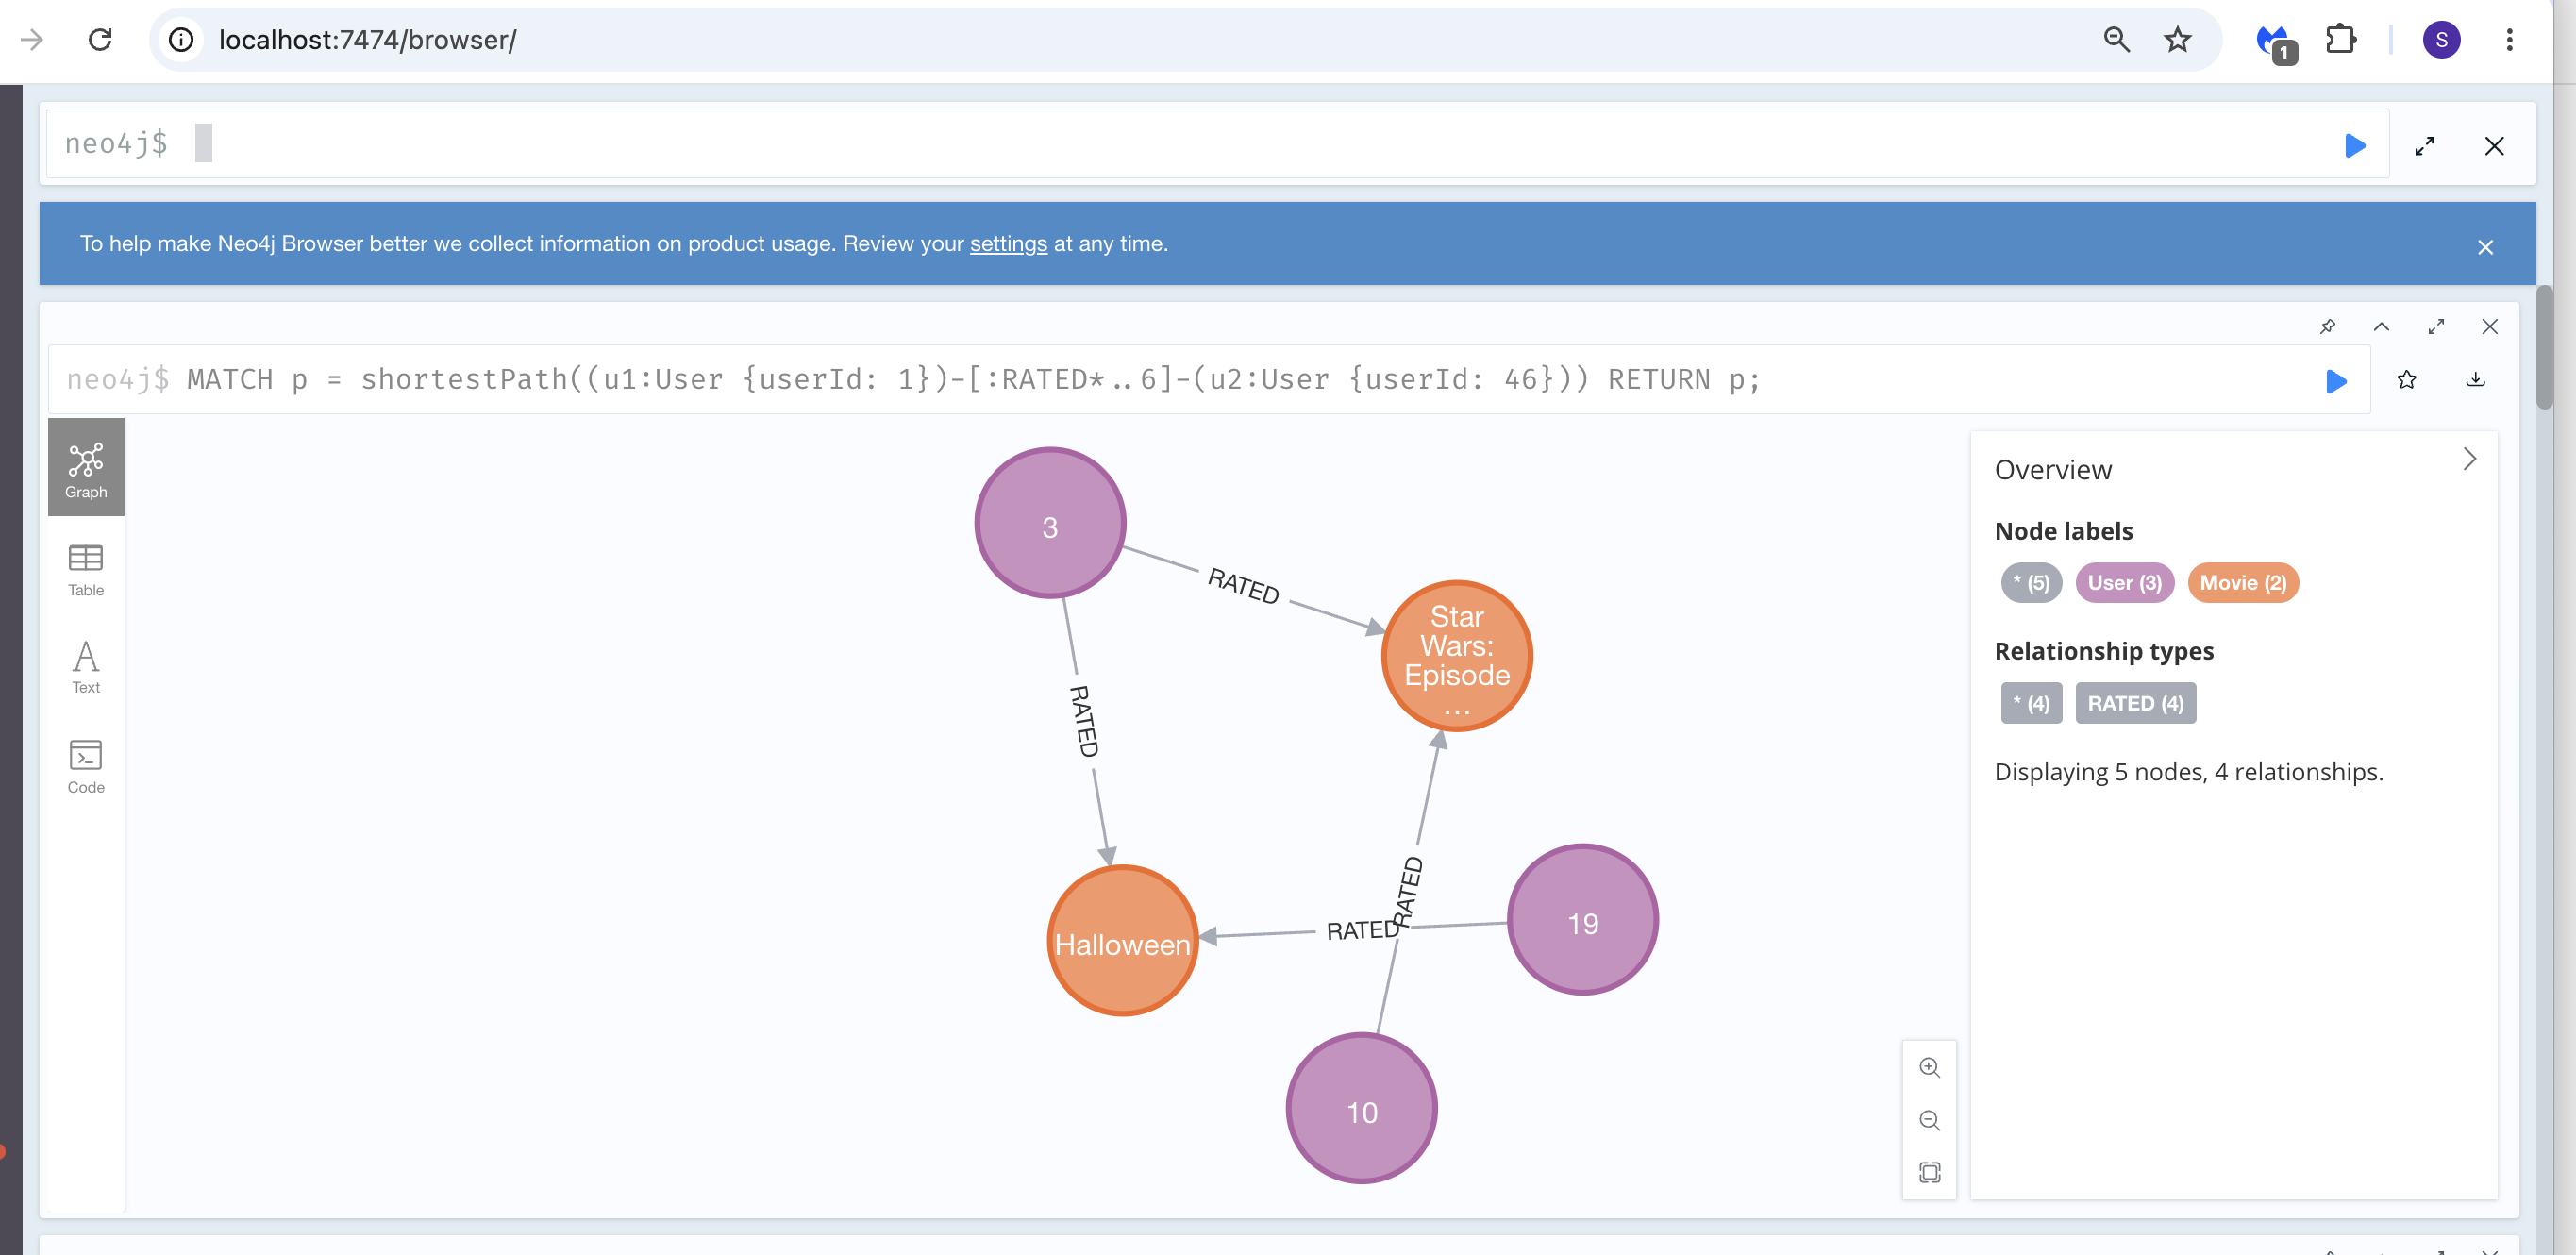
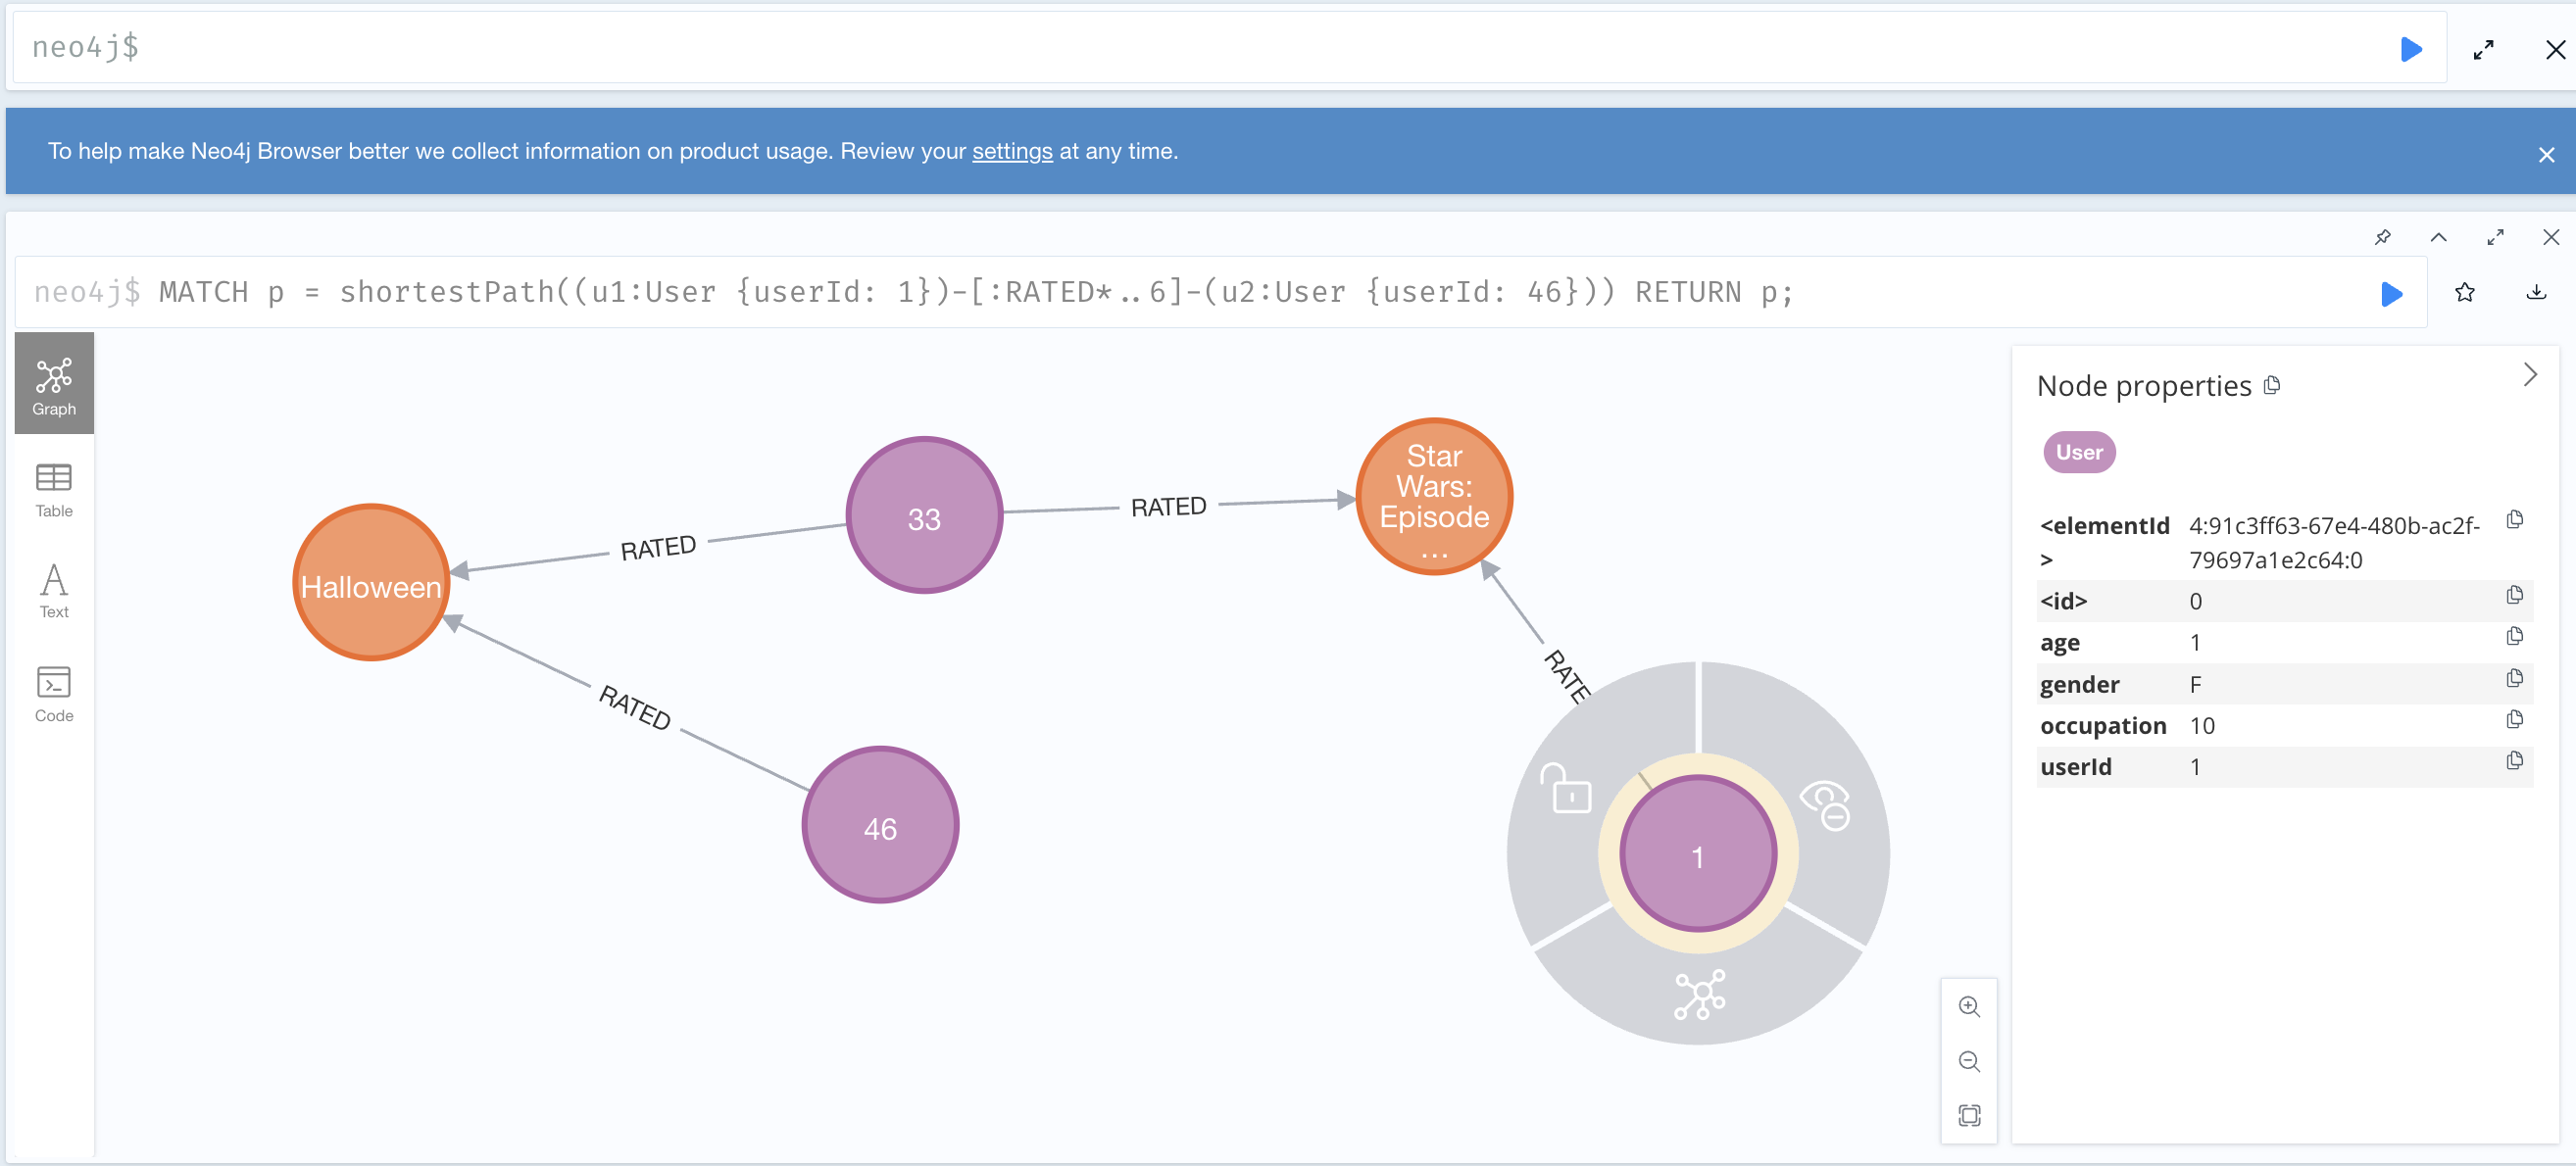
part4,5_1

diff --git a/README.md b/README.md
@@ -184,3 +184,83 @@
    * *Інтерпретація:* Це трикроковий ланцюжок інтересів (3 користувачі та 3 фільми). Користувач 1 пов'язаний з Користувачем 10 через ланцюг спільних смаків двох проміжних людей (X та Y). У теорії соціальних мереж такий шлях вважається межею щільності ("Теорія шести рукостискань"), яка показує, що навіть абсолютно різні та далекі за смаками користувачі все одно пов'язані через дуже коротку дистанцію.
 
 ---
+
+## Частина 4. Виявлення супервузлів (Supernodes)
+
+### Пояснення логіки запитів та суті проблеми
+
+* **Запит 1 (Пошук супервузлів серед Фільмів):**
+    * *Що робить:* Підраховує кількість вхідних ребер `[:RATED]` для кожного фільму, сортує їх за спаданням і виводить топ-10 найпопулярніших кінострічок, які є головними «хабами» графа.
+    * *Чому написаний саме так:* Запит використовує агрегацію `count(r)` у поєднанні з оператором `WITH`. Це дозволяє Neo4j спочатку обчислити ступінь зв'язності вузла (Degree), виконати швидке сортування в пам'яті та обмежити вибірку за допомогою `LIMIT 10` до того, як повертати фінальні властивості тексту.
+
+    <img src="screenshots/part4/movie_supernodes.png" width="600" alt="Супервузли серед фільмів">
+
+* **Запит 2 (Пошук супервузлів серед Користувачів):**
+    * *Що робить:* Підраховує кількість вихідних ребер від кожного користувача, виявляючи аномально активних критиків чи ботів, які оцінили найбільшу кількість фільмів.
+    * *Чому написаний саме так:* Аналогічно до першого запиту, фокусується на вихідних зв'язках `(u:User)-[r:RATED]->()`. Використання чистого анонімного патерна `->()` без вказання типу кінцевого вузла оптимізує швидкість підрахунку, оскільки планувальник Neo4j дивиться суто на вказівники ребер у дескрипторі вузла користувача.
+
+    <img src="screenshots/part4/user_supernodes.png" width="600" alt="Супервузли серед користувачів">
+
+#### Чому супервузли — це проблема для продуктивності?
+Коли Cypher-запит (наприклад, алгоритм рекомендацій чи пошук найкоротшого шляху) доходить до супервузла, відбувається **ефект пляшкового горла**. Замість швидкого переходу до наступного кроку, база даних змушена зчитувати та ітерувати тисячі або десятки тисяч ребер, що належать цьому одному вузлу. Це різко збільшує використання оперативної пам'яті (Heap memory) та призводить до комбінаторного вибуху на наступних кроках обходу мережі.
+
+#### Відповіді на запитання:
+
+1. **Які вузли виявилися супервузлами? Скільки у них зв’язків?**
+   * **Серед Фільмів (In-degree Supernodes):** Абсолютним лідером став фільм **"American Beauty" (1999)**, який має аномальні **3428 вхідних ребер** `[:RATED]`. Також у топ-хабів увійшла оригінальна трилогія **"Star Wars"** (епізоди IV, V, VI) та **"Jurassic Park"** із показниками близько 2600–2900 зв'язків кожен.
+   * **Серед Користувачів (Out-degree Supernodes):** Головним супервузлом виявився користувач із **`userId: 4169`**, який самостійно згенерував **2314 вихідних ребер** до різних фільмів. За ним іде `userId: 1680` із 1850 ребрами.
+
+2. **Чому запит, що зачіпає такий вузол, працює повільніше, ніж запит по «звичайному» вузлу з тими самими індексами?**
+   Індекси в графових базах даних (наприклад, за `userId` або `movieId`) допомагають лише **знайти початкову точку входу** в граф за $O(1)$ або $O(\log N)$. Але щойно точка знайдена, починається операція обходу графа (Graph Traversal).
+   * **У звичайному вузлі:** користувач має, наприклад, 10 оцінок. База зчитує 10 покажчиків у пам'яті й миттєво переходить далі.
+   * **У супервузлі:** коли алгоритм доходить до *"American Beauty"*, він змушений зчитати та ітерувати всі 3428 ребер у пам'яті (Heap memory). Якщо на наступному кроці алгоритму (наприклад, у колаборативній фільтрації) ми спробуємо розгорнути зв'язки цих 3428 користувачів, відбудеться **комбінаторний вибух**. База почне прораховувати мільйони траєкторій, що призведе до різкого падіння швидкості, забивання RAM та таймауту, незалежно від наявності індексів.
+
+3. **Яку конкретну стратегію з лекцій ви б застосували для цього датасету? Що робити з жанрами?**
+   Якщо поглянути на архітектуру нашої бази, **вузли жанрів (`:Genre`, такі як *Drama*, *Comedy*, *Action*) є абсолютними мега-супервузлами**. Наприклад, до жанру *Drama* чи *Comedy* підв'язані тисячі фільмів. Будь-який запит на зразок "знайти фільми в жанрі драма, які дивилися мої друзі" приречений на гальмування через обхід гігантського хабу жанру.
+   
+   **Застосовні інженерні стратегії:**
+   * **Стратегія 1. Денормалізація та винесення в атрибути (Жанри як масив):** У нашому поточному датасеті жанри виділені в окремі вузли, що красиво архітектурно, але катастрофічно для продуктивності. Найкраща стратегія тут — **знищити вузли `:Genre`**, а самі жанри зберігати як простий індексований масив рядків прямо всередині вузла фільму: `m.genres = ["Drama", "Romance"]`. Це прибере супервузли взагалі, а фільтрація відбуватиметься миттєво на рівні властивостей вузла фільму.
+   * **Стратегія 2. Обмеження ступеня обходу (Degree Limiting / LIMIT-фільтри, які ми використали в запитах Частини 3):** На рівні Cypher-запитів ми застосували цю стратегію, примусово обмеживши вибірку через `LIMIT 15` на першому кроці. Замість того, щоб пускати запит по всіх ребрах супервузла, ми штучно обрізаємо граф, залишаючи лише фіксовану кількість зв'язків з найвищим пріоритетом (найвищою оцінкою або найсвіжішою датою).
+___
+
+## Частина 5. Графові алгоритми через GDS
+
+### 5.1. PageRank на графі фільмів
+* **Що робить:** Алгоритм PageRank оцінює "важливість" або "впливовість" кожного фільму в межах сформованого графа спільних переглядів. Фільм отримує високий бал (`PageRankScore`), якщо він міцно пов'язаний з іншими важливими (популярними) фільмами через велику кількість спільних максимальних оцінок від користувачів.
+* **Чому написаний саме так:**
+    * **Крок 1 (Матеріалізація):** Створює віртуальну мережу схожості фільмів. Задля оптимізації обчислень ми відбираємо лише ті фільми, які мають понад 20 оцінок, та використовуємо жорстку умову схожості `rating = 5` (найвищий ступінь захоплення контентом). Це захищає систему від перевантаження оперативної пам'яті.
+
+    <img src="screenshots/part5/step1_results.png" width="600" alt="Віртуальна мережа схожості фільмів">
+
+    * **Крок 2 (Проєкція):** За допомогою `gds.graph.project` граф переноситься у спеціальну внутрішню структуру GDS в оперативній пам'яті, що дозволяє алгоритмам швидко обходити вузли без звернення до диска. Ребра `CO_RATED` оголошуються як `UNDIRECTED` (неорієнтовані).
+
+    <img src="screenshots/part5/step2_results.png" width="600" alt="Результати PageRank для фільмів">
+
+    * **Крок 3 (Алгоритм):** Процедура `gds.pageRank.stream` запускає ітераційне обчислення рангів. Параметр `relationshipWeightProperty: 'weight'` є критично важливим: він змушує алгоритм враховувати силу зв'язку (кількість спільних глядачів), а не просто сам факт наявності ребра. `dampingFactor: 0.85` — це стандартний коефіцієнт згасання (ймовірність випадкового переходу), а `maxIterations: 20` гарантує математичну збіжність алгоритму.
+    * **Крок 4 (Очищення):** `gds.graph.drop` звільняє оперативну пам'ять сервера від проєкції, а `DELETE co` видаляє тимчасові ребра, запобігаючи забрудненню та роздуванню основної схеми бази даних.
+    
+    <img src="screenshots/part5/pagerank_results.png" width="600" alt="Результати PageRank для фільмів">
+
+#### Bисновки щодо результатів PageRank:
+
+1. **Які фільми отримали найвищий ранг і чому?**
+   Найвищий ранг отримав фільм *"Star Wars: Episode IV - A New Hope" (1977)* (`14.0404`), обійшовши *"American Beauty"* (`12.3496`). Це сталося тому, що PageRank оцінює значущість вузла не за банальною кількістю ребер (degree), а за якістю структури зв'язків. "Зоряні Війни" пов'язані з іншими популярними стрічками кінематографа, утворюючи потужне та щільне ядро (кліку) у графі, що максимізувало фінальний бал.
+2. **Чим PageRank концептуально відрізняється від звичайного підрахунку кількості оцінок?**
+   Звичайний підрахунок (як у Частині 4) — це локальна метрика, яка бачить лише "сусідів" вузла. PageRank — це **глобальна топологічна метрика**. Вона враховує контекст усього графа: якщо фільм $A$ пов'язаний з одним фільмом $B$, який є мега-популярним, то фільм $A$ отримає значно вищий ранг, ніж якщо б він був пов'язаний з десятьма нікому не відомими фільмами.
+
+#### Що означає високий PageRank для фільму в цьому графі? Це просто “популярний фільм” чи щось інше?
+
+Високий PageRank для фільму в цьому графі — це **не просто ознака "популярності"** (тобто великої кількості оцінок), це показник його **фундаментальності та системної значущості для кінематографа**.
+
+Математично це:
+
+1. **Метрика "культового статусу":** 
+    Звичайний підрахунок оцінок (Degree) показує, як часто фільм дивилися взагалі. Натомість PageRank дивиться, *хто* його дивився. Оскільки наші ребра `CO_RATED` з'єднують фільми лише через людей, які поставили обом стрічкам найвищий бал (`rating = 5`), високий PageRank означає, що цей фільм є **спільним знаменником максимального захоплення** для глядачів інших видатних фільмів. 
+
+2. **Ефект "Жанрових Клік":**
+    Фільм отримує аномально високий PageRank, якщо він є ядром так званої "кліки" (групи щільно пов'язаних між собою високорангових вузлів). Наприклад, *"Star Wars: Episode IV"* отримує величезну вагу не просто від кількості людей, а тому, що його обожнюють ті самі люди, які обожнюють *"The Empire Strikes Back"*, *"Raiders of the Lost Ark"* та *"The Godfather"*. Ранг циркулює всередині цього золотого фонду кінематографа, підсилюючи кожен вузол.
+
+3. **Практична інтерпретація:**
+    * **Високий Degree (проста популярність):** Фільм популярний у певний період, його бачило багато випадкових людей (вони могли поставити йому 3, 4 чи 5, він просто на слуху), проте з часом його популярність затухає і він не входить до колекції фільмів (шедеврів), які рекомендують один одному.
+    * **Високий PageRank (системна важливість):** Фільм, скоріш за все, є шедевром. Якщо людина є прихильником кіномистецтва, вона з величезною ймовірністю поставить найвищу оцінку і цьому фільму. Це індикатор "еталонного" кіно, яке формує смаки спільноти.
+___